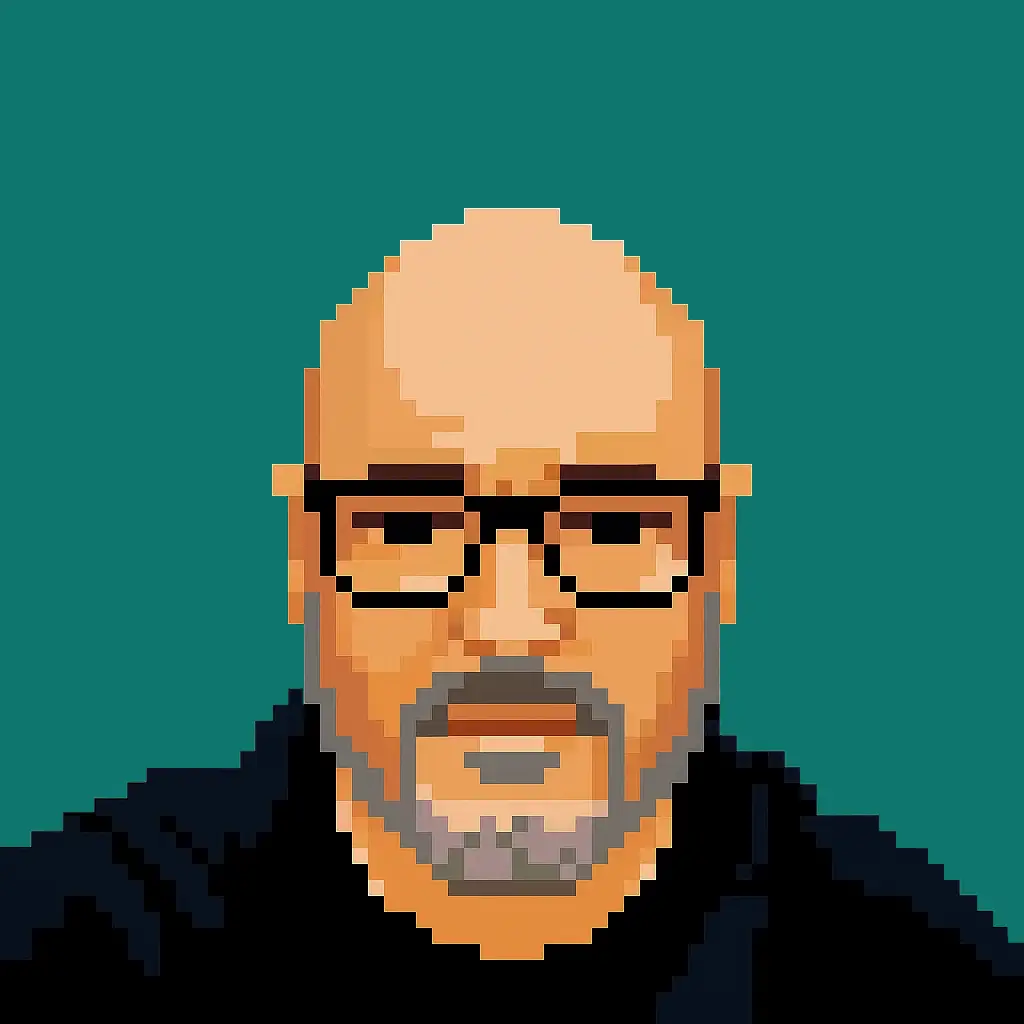
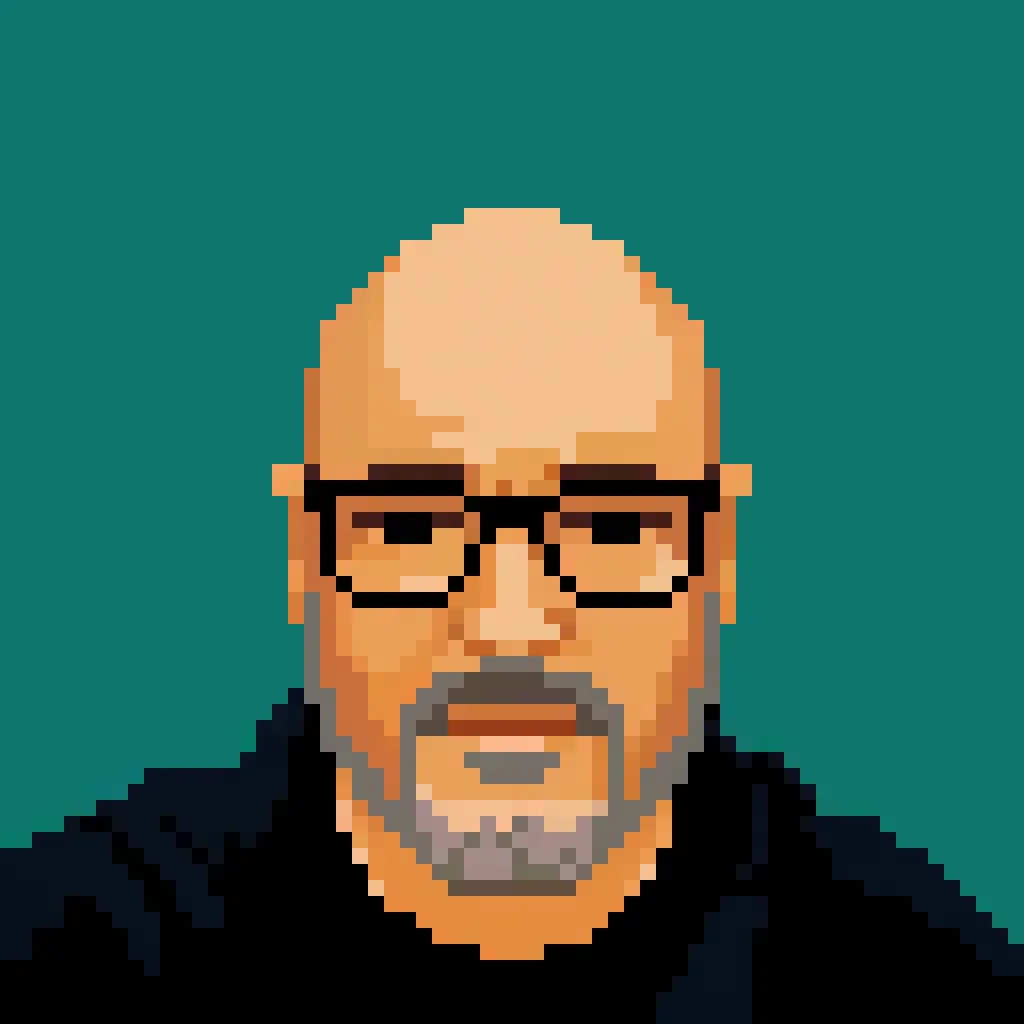
Replace pixel profile picture. Add ErrorBlock component

diff --git a/src/app/global-error.tsx b/src/app/global-error.tsx
@@ -1,45 +1,22 @@
 'use client';
 
-import { useEffect } from 'react';
+import { LangVars } from '@/constants/lang';
+import ErrorBlock from '@/components/ErrorBlock';
 import '@/styles/globals.scss';
 
-export default function GlobalError({}: { error: Error & { digest?: string }; reset: () => void }) {
-  useEffect(() => {
-    const handleKeyDown = (event: KeyboardEvent) => {
-      if (event.key === 'Enter') {
-        event.preventDefault();
-        window.location.reload();
-      }
-    };
-    window.addEventListener('keydown', handleKeyDown);
-    return () => window.removeEventListener('keydown', handleKeyDown);
-  }, []);
+const { name } = LangVars.Metadata;
 
+const GlobalError = ({ reset }: { error: Error & { digest?: string }; reset: () => void }) => {
   return (
-    <html lang='en'>
-      <body className='flex min-h-screen items-center justify-center p-6 font-mono text-gray-100'>
-        <main role='main' className='w-full max-w-2xl overflow-hidden rounded-lg border border-gray-700 bg-[#1a1a1a] shadow-lg'>
-          <div className='flex items-center gap-2 bg-[#2d2d2d] px-3 py-2'>
-            <span className='h-3 w-3 rounded-full bg-red-500'></span>
-            <span className='h-3 w-3 rounded-full bg-yellow-500'></span>
-            <span className='h-3 w-3 rounded-full bg-green-500'></span>
-            <span className='ml-3 text-sm text-gray-400'>bash — oh no, it broke :(</span>
-          </div>
-
-          <div className='p-6'>
-            <p className='text-green-400'>
-              user@this-app:~$
-              <span className='ml-2 text-white'>npm run this-app</span>
-            </p>
-
-            <p className='mt-4 text-red-700'>➜ Error: Something went wrong! Press enter to try again.</p>
-
-            <p className='mt-6 text-green-400'>
-              user@this-app:~$ <span className='console-cursor' />
-            </p>
-          </div>
-        </main>
+    <html lang='en' data-scroll-behavior='smooth'>
+      <head>
+        <title>{`${name} ~ Oops: Something went wrong!`}</title>
+      </head>
+      <body>
+        <ErrorBlock action={reset} />
       </body>
     </html>
   );
-}
+};
+
+export default GlobalError;

diff --git a/src/app/error.tsx b/src/app/error.tsx
@@ -1,42 +1,17 @@
 'use client';
 
-import { useEffect } from 'react';
+import { Metadata } from 'next';
+import { LangVars } from '@/constants/lang';
+import ErrorBlock from '@/components/ErrorBlock';
 
-export default function Error({ reset }: { error: Error & { digest?: string }; reset: () => void }) {
-  // Pressing Enter also calls reset()
-  useEffect(() => {
-    const handleKeyDown = (event: KeyboardEvent) => {
-      if (event.key === 'Enter') {
-        event.preventDefault();
-        reset();
-      }
-    };
-    window.addEventListener('keydown', handleKeyDown);
-    return () => window.removeEventListener('keydown', handleKeyDown);
-  }, [reset]);
+const { name } = LangVars.Metadata;
 
-  return (
-    <div className='flex min-h-screen items-center justify-center p-6 font-mono text-gray-100'>
-      <div className='w-full max-w-2xl overflow-hidden rounded-lg border border-gray-700 bg-[#1a1a1a] shadow-lg'>
-        <div className='flex items-center gap-2 bg-[#2d2d2d] px-3 py-2'>
-          <span className='h-3 w-3 rounded-full bg-red-500'></span>
-          <span className='h-3 w-3 rounded-full bg-yellow-500'></span>
-          <span className='h-3 w-3 rounded-full bg-green-500'></span>
-          <span className='ml-3 text-sm text-gray-400'>bash — oh no, it broke :(</span>
-        </div>
-        <div className='p-6'>
-          <p className='text-green-400'>
-            guest@this-app:~$
-            <span className='ml-2 text-white'>npm run this-app</span>
-          </p>
+export const metadata: Metadata = {
+  title: `${name} ~ Oops: Something went wrong!`,
+};
 
-          <p className='mt-4 text-red-700'>➜ Error: Something went wrong! Press enter to try again.</p>
+const Error = ({ reset }: { error: Error & { digest?: string }; reset: () => void }) => {
+  return <ErrorBlock action={reset} />;
+};
 
-          <p className='mt-6 text-green-400'>
-            guest@this-app:~$ <span className='console-cursor' />
-          </p>
-        </div>
-      </div>
-    </div>
-  );
-}
+export default Error;

diff --git a/src/components/ErrorBlock/ErrorBlock.tsx b/src/components/ErrorBlock/ErrorBlock.tsx
@@ -1,0 +1,61 @@
+'use client';
+
+import { useCallback, useEffect } from 'react';
+import { useRouter } from 'next/navigation';
+
+interface ErrorBlockProps {
+  action?: () => void;
+}
+
+const ErrorBlock = ({ action }: ErrorBlockProps) => {
+  const router = useRouter();
+
+  const handleKeyDown = useCallback(
+    (event: KeyboardEvent) => {
+      if (event.key === 'Enter') {
+        event.preventDefault();
+        if (action) {
+          action();
+
+          return;
+        }
+
+        router.push('/');
+      }
+    },
+    [router, action],
+  );
+
+  useEffect(() => {
+    window.addEventListener('keydown', handleKeyDown);
+
+    return () => window.removeEventListener('keydown', handleKeyDown);
+  }, [handleKeyDown]);
+
+  return (
+    <div className='flex min-h-screen items-center justify-center p-6 font-mono text-gray-100'>
+      <div className='w-full max-w-2xl overflow-hidden rounded-lg border border-gray-700 bg-[#1a1a1a] shadow-lg'>
+        <div className='flex items-center gap-2 bg-[#2d2d2d] px-3 py-2'>
+          <span className='h-3 w-3 rounded-full bg-red-500'></span>
+          <span className='h-3 w-3 rounded-full bg-yellow-500'></span>
+          <span className='h-3 w-3 rounded-full bg-green-500'></span>
+          <span className='ml-3 text-sm text-gray-400'>bash — oh no, it broke :(</span>
+        </div>
+        <div className='p-6'>
+          <p className='text-green-400'>
+            guest@this-app:~$
+            <span className='ml-2 text-white'>npm run this-app</span>
+          </p>
+
+          <p className='mt-4 text-red-700'>➜ Error: Something went wrong! Press enter to try again.</p>
+
+          <p className='mt-6 text-green-400'>
+            guest@this-app:~$ <span className='console-cursor' />
+          </p>
+        </div>
+      </div>
+    </div>
+  );
+};
+
+export default ErrorBlock;

diff --git a/src/components/ErrorBlock/index.ts b/src/components/ErrorBlock/index.ts
@@ -1,0 +1,3 @@
+import ErrorBlock from './ErrorBlock';
+
+export default ErrorBlock;
